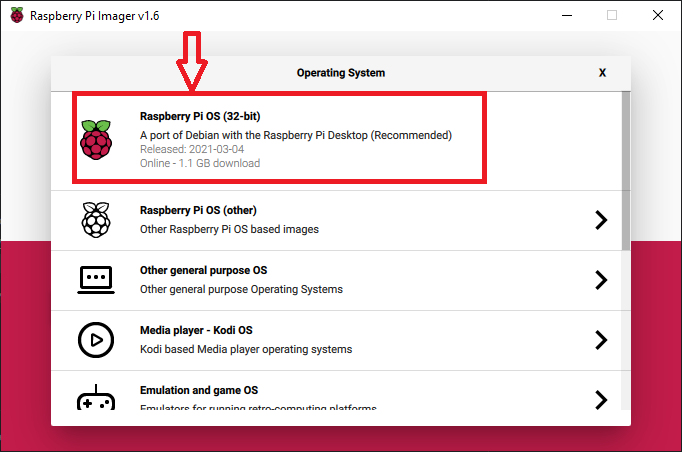
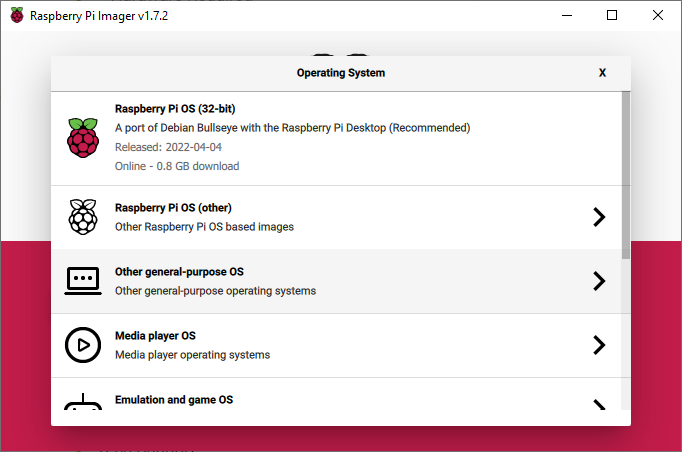
Updated Install of OS #1

diff --git a/src/Module01/README.md b/src/Module01/README.md
@@ -1,76 +1,56 @@
 # IoT Central Device Training
 ## Module 01 - Setting up your Raspberry Pi
 
-### Video for Module 01 - Setting up your Raspberry Pi
-[![](http://img.youtube.com/vi/Bb5ookAZsjI/0.jpg)](http://www.youtube.com/watch?v=Bb5ookAZsjI "Module 01 - Setting up your Raspberry Pi")
+The Raspberry Pi is a fully functional computer and a variety of operating systems can be loaded and used. We like to stick with the official Raspbain OS that is based on Debian Linux and is easy to install and use.
 
 ### Configuring the OS for the RPi (Raspbian)
-Our first thing to set up is your Raspbian image on the SD card that you load will into the MicroSD cart slot on the Raspberry Pi.
+Our first thing to set up is your Raspbian image on the SD card that you load will into the MicroSD cart slot on the Raspberry Pi. You will need at least a 8 gig card and the ability to I/O to the card using a SD reader.
 
-#### Here are the tools you need to install...
+#### Install the Operating System on the SD Card
 
-* The official SD Card Formatter from the SD Association. Install for your OS. [LINK: SD Card Formatter](https://www.sdcard.org/downloads/formatter/)
+* The official _Raspberry Pi Imager_ software. This simplifies the installation of the OS onto the SD Card and handled the formatting and imaging. [LINK: Raspberry Pi Imager](https://www.raspberrypi.com/software/)
 
-* The tool called "balenaEtcher" which is used to copy your Raspbian image onto the formatted SD card. [LINK: balenaEtcher Download Page](https://www.balena.io/etcher/)
+![Raspberry Pi Imager](../../Assets/pi-os-imager-download.png "Raspberry Pi Imager")
 
-* The OS Image for the RPi. We will install the full package named "Raspbian Buster with desktop and recommended software" [LINK: Raspbian Buster Download Page](https://www.raspberrypi.org/downloads/raspbian/)
+* Goto the page in the link and install the **_Raspberry Pi Imager_** software for your operating system.
+* Next, fire up the **_Raspberry Pi Imager_** software...
 
-###### NOTE: balenaEtcher does not require the SD card to be formatted before imaging with Raspbian. I include the process for completeness, but you can skip it if you are so inclined!
+![Raspberry Pi Imager Software Home Screen](../../Assets/pi-os-installer.png "Raspberry Pi Imager Software Home Screen")
 
-#### Now that you have all of that software installed, let's build our SD card for the RPi...
+* Press **CTRL+SHIFT+X** on the keyboard to open **Advanced options** window...
 
-* Place your card into your SD slot on your computer and insure the system can see the card. DO NOT FORMAT IT if you are prompted by your Operating System, just dismiss the dialogs
-* Start the SD Card Formatter software you downloaded. 
+![Raspberry Pi Imager Software Advanced Options #1](../../Assets/pi-os-installer-advanced-options-1.png "Raspberry Pi Imager Software Advanced Options #1")
 
-![alt text](../../Assets/sd-formatter-app.png "SD Card Formatter")
+####Set the following options...
 
-* The dialog will open, find your SD card (make sure the right drive is selected) and choose the option to "Overwrite format" and give your image a name 
+* Enable **Set Hostname:** and give your Pi a name you want or leave the default.
+* Enable **Enable SSH** and set the option to **Use password authentication**
+* Enable **Set username and password** to your preferences and something you can remember! :) Hint: Click the **Show password** option and insure it is all correct.
+* Enable **Configure wireless LAN** and setup to your wireless network details.
+* Enable **Set locale settings** to your time zone and preferred keyboard layout.
 
-![alt text](../../Assets/sd-formatter-dialog.png "SD Card Formatter")
+Click the **SAVE** button!
 
-Have a coffee, it will take a bit to do a 16gig card...
+####Install the Operating System...
+Click the **CHOOSE OS** button and the dialog will pop up for for OS choices to install. We are going to choose the first option **Raspberry PI OS (32-bit)**...
 
-#### Next Let's Copy Buster to the SD Card...
+![Raspberry Pi Imager Software Choose OS](../../Assets/pi-os-installer-choose-os.png "Raspberry Pi Imager Software Choose OS")
 
-* Close the SD Formatter Card application
-* Open the balenaEtcher application...
+Click the **CHOOSE STORAGE** button and the dialog will open, find your SD card (make sure the right drive is selected) and click on it.
 
-![alt text](../../Assets/balenaetcher-app.png "balenaEtcher application")
+![Raspberry Pi Imager Software Choose Card](../../Assets/pi-os-installer-choose-card.png "Raspberry Pi Imager Software Choose Card")
 
-* Click the "Select Image" button and select the zip file from the location where you saved it when you downloaded "Buster" from the Raspberry Pi download page
- 
- ![alt text](../../Assets/balenaetcher-dialog-select-image.png "balenaEtcher select image")
+Click the **WRITE** button and CONFIRM you want to overwrite the card (if prompted) and start...
 
- * Select the "Flash!" button and sit back let the etcher copy the image and verify it
+*Kick back and have some coffee and let everything complete...*
 
-![alt text](../../Assets/balenaetcher-dialog-flash.png "balenaEtcher flash")
+When teh write prcoess completes, you will see this notification...
 
-#### Enable ssh to allow remote login
-For security reasons, ssh is no longer enabled by default. To enable it you need to place an empty file named ssh (no extension) in the root of the boot disk.
+![Raspberry Pi Imager Software Card Completed](../../Assets/pi-os-installer-completed.png "Raspberry Pi Imager Software Card Completed")
 
-##### Mac instructions (enable ssh)
-    Open up a terminal window and run this command:
-    
-    touch /Volumes/boot/ssh
-
-##### Windows instructions (ssh)
-    Run Notepad
-    * In a new file put in one space and nothing more
-    * Click File / Save As …
-    * Be sure to set Save as type to All Files (so the file is NOT saved with a .txt extension)
-    * Call the file ssh and save it
-    * Close the file
-    
-    If you are comfortable with the Windows command line you could try this instead (untested!):
-        * Open up a command line
-        * Switch to the drive and root where boot is located:
-        * Type: type NUL >> ssh
-        * Verify that file ssh was created
-
-#### Add your WiFi network info
 Create a file in the root of boot called: wpa_supplicant.conf (instructions below). Then paste the following into it (adjusting for your ISO 3166 alpha-2 country code, network name and network password):
 
-```
+```bash
 country=US
 ctrl_interface=DIR=/var/run/wpa_supplicant GROUP=netdev
 update_config=1
@@ -81,24 +61,23 @@ network={
 }
 ```
 
-##### Mac instructions (wifi settings)
+#### Mac instructions (wifi settings)
 Create a new empty file that will hold network info:
 
-     touch /Volumes/boot/wpa_supplicant.conf
+* touch /Volumes/boot/wpa_supplicant.conf
+* Edit the file that you just created and paste the text above into it (adjusting for the name of your country code, network name and network password):
 
-Edit the file that you just created and paste the text above into it (adjusting for the name of your country code, network name and network password):
-
-##### Windows instructions (wifi settings)
+#### Windows instructions (wifi settings)
 * Run Notepad
 * Paste in the contents above (adjusting for the name of your country code, network name and network password)
-* Click File / Save As …
-    Be sure to set Save as type to All Files (so the file is NOT saved with a .txt extension)
+* Click File / Save As ...
+* Be sure to set Save as type to All Files (so the file is NOT saved with a .txt extension)
 * Call the file wpa_supplicant.conf and save it
 * Close the file
- 
-#### Eject the micro SD card
-Right-click on boot (on your desktop or File Explorer) and select the Eject option
-This is a “logical” eject - meaning it closes files and preps the SD card for removal - you still have to pull the card out yourself
+
+#### Eject the Micro SD card
+* Right-click on boot (on your desktop or File Explorer) and select the Eject option
+* This is a “logical” eject - meaning it closes files and preps the SD card for removal - you still have to pull the card out yourself
 
 
 #### Congratulations, you have prepared your OS for the Raspberry Pi
